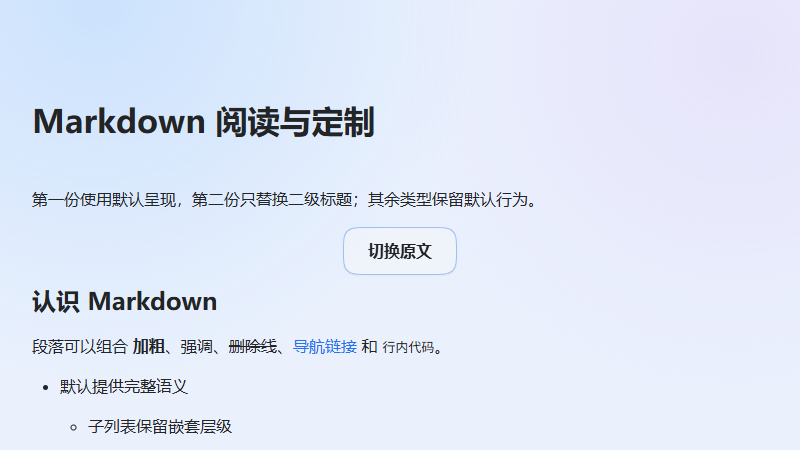
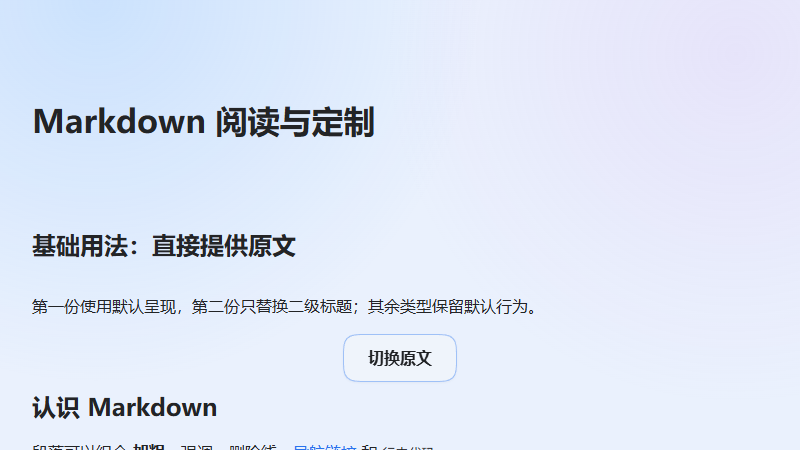
🚧 文件命名

diff --git a/src/app/example-dashboard/pages/ExampleDashboard.browser.test.tsx b/src/app/example-dashboard/pages/ExampleDashboard.browser.test.tsx
@@ -237,6 +237,39 @@ describe('ExampleDashboard', () => {
     ).toEqual(['Article'])
   })
 
+  test('Markdown 详情按场景展示代码原文与本地文件，切换原文不改变文件内容', () => {
+    window.history.replaceState(null, '', '/examples/markdown')
+    const host = document.body.appendChild(document.createElement('div'))
+    dispose = render(() => <ExampleDashboard />, host)
+
+    const headings = [...host.querySelectorAll('h2')].map(
+      (node) => node.textContent,
+    )
+    expect(headings).toContain('基础用法：直接提供原文')
+    expect(headings).toContain('渲染 Markdown 文件')
+    const documents = host.querySelectorAll('.Markdown')
+    expect(documents).toHaveLength(3)
+    expect(documents[0].querySelector('h2')?.textContent).toBe('认识 Markdown')
+    expect(documents[1].querySelector('h3')?.textContent).toBe(
+      '自定义标题：认识 Markdown',
+    )
+    expect(documents[2].querySelector('h3')?.textContent).toBe(
+      '文件中的阅读指南',
+    )
+    expect(documents[2].querySelectorAll('tbody tr')).toHaveLength(2)
+
+    const switchButton = [
+      ...host.querySelectorAll<HTMLButtonElement>('button'),
+    ].find((button) => button.textContent === '切换原文')!
+    switchButton.click()
+    flush()
+    expect(documents[0].textContent).toContain('原文已经更新')
+    expect(documents[1].textContent).toContain('自定义标题：原文已经更新')
+    expect(documents[2].querySelector('h3')?.textContent).toBe(
+      '文件中的阅读指南',
+    )
+  })
+
   test('Article 示例由外层 Card 承载，皮肤与正文语义各归自身', () => {
     window.history.replaceState(null, '', '/examples/article')
     const host = document.body.appendChild(document.createElement('div'))

diff --git a/src/app/example-dashboard/pages/ExampleDashboard.tsx b/src/app/example-dashboard/pages/ExampleDashboard.tsx
@@ -34,7 +34,7 @@ import { ButtonExample } from '@/components/kits/Button/Button.example'
 import { Card, Flow } from '@/components'
 import { CardExample } from '@/components/kits/Card/Card.example'
 import { ArticleExample } from '@/components/kits/Article/Article.example'
-import { MarkdownExample } from '@/components/kits/Markdown/Markdown.example'
+import { MarkdownExamples } from '@/components/kits/Markdown/examples/showcase'
 import { InputExample } from '@/components/kits/Input/Input.example'
 import { PopoverExample } from '@/components/plugins/kits/Popover/popover.example'
 import { PivStructureExample } from '@/components/Piv/PivStructure.example'
@@ -81,7 +81,7 @@ export const exampleEntries: ExampleEntry[] = [
     category: exampleCategories.component,
     summary: '渲染 Markdown 原文，按语法类型定制内容呈现。',
     thumbnail: new URL('../thumbnails/markdown.webp', import.meta.url).href,
-    content: MarkdownExample,
+    content: MarkdownExamples,
   },
   {
     id: 'async-state',

diff --git a/src/components/kits/Markdown/examples/basic-usage.tsx b/src/components/kits/Markdown/examples/basic-usage.tsx
@@ -5,7 +5,7 @@
  *
  * 让调用方直接看到同一份原文怎样使用不同呈现配置。
  */
-import { Button, Flow, Heading, Markdown, Text } from '../..'
+import { Button, Flow, Heading, Markdown, Text } from '../../..'
 import { createState } from '@/foundation'
 
 const initialMarkdown = `## 认识 **Markdown**
@@ -32,11 +32,11 @@ const message = '你好，Markdown'
 /**
  * 通过编辑来源与局部标题覆盖，展示原文和配置的独立作用。
  */
-export function MarkdownExample() {
+export function BasicUsageExample() {
   const content = createState(initialMarkdown)
   return (
     <Flow styleConfig={{ direction: 'column' }}>
-      <Heading level={1}>Markdown 阅读与定制</Heading>
+      <Heading level={2}>基础用法：直接提供原文</Heading>
       <Text>
         第一份使用默认呈现，第二份只替换二级标题；其余类型保留默认行为。
       </Text>

diff --git a/src/components/kits/Markdown/examples/markdown-file.tsx b/src/components/kits/Markdown/examples/markdown-file.tsx
@@ -1,0 +1,24 @@
+/**
+ * 本地 Markdown 文件的渲染示例。
+ *
+ * 将相邻文件作为原文导入，再交给 Markdown 的 children。
+ *
+ * 文件读取由应用构建工具承担，组件只接收字符串。
+ */
+import { Flow, Heading, Markdown, Text } from '../../..'
+import readingGuide from './reading-guide.md?raw'
+
+/**
+ * 展示通过 ?raw 导入的 Markdown 文件，沿用直接传入原文的组件契约。
+ */
+export function MarkdownFileExample() {
+  return (
+    <Flow styleConfig={{ direction: 'column' }}>
+      <Heading level={2}>渲染 Markdown 文件</Heading>
+      <Text>
+        相邻的 reading-guide.md 通过 ?raw 导入，作为 children 交给 Markdown。
+      </Text>
+      <Markdown>{readingGuide}</Markdown>
+    </Flow>
+  )
+}

diff --git a/src/components/kits/Markdown/examples/showcase.tsx b/src/components/kits/Markdown/examples/showcase.tsx
@@ -1,0 +1,23 @@
+/**
+ * Markdown 各使用场景的展示入口。
+ *
+ * 将代码原文与独立文件两种输入场景组织到同一页面。
+ *
+ * 示例目录只需登记一个入口，各场景仍在自己的文件中说明用法。
+ */
+import { Flow, Heading } from '../../..'
+import { BasicUsageExample } from './basic-usage'
+import { MarkdownFileExample } from './markdown-file'
+
+/**
+ * 按输入场景展示 Markdown 的基础用法与文件渲染。
+ */
+export function MarkdownExamples() {
+  return (
+    <Flow styleConfig={{ direction: 'column' }}>
+      <Heading level={1}>Markdown 阅读与定制</Heading>
+      <BasicUsageExample />
+      <MarkdownFileExample />
+    </Flow>
+  )
+}

diff --git a/src/components/kits/Markdown/parser.ts b/src/components/kits/Markdown/parser.ts
@@ -9,8 +9,8 @@ import type {
   MarkdownListItem,
   MarkdownNode,
   MarkdownReferences,
-} from './Markdown.syntax-tree'
-import { parseMarkdownInline, readMarkdownDestination } from './Markdown.inline-parser'
+} from './syntax-tree'
+import { parseMarkdownInline, readMarkdownDestination } from './inline-parser'
 
 /** 一行列表标记决定项目的缩进归属，而非只凭项目符号分组。 */
 interface ListMarker {

diff --git a/src/components/kits/Markdown/inline-parser.ts b/src/components/kits/Markdown/inline-parser.ts
@@ -5,7 +5,7 @@
  *
  * 未闭合的语法保留文字，代码内容不参与实体或强调解释。
  */
-import type { MarkdownNode, MarkdownReferences } from './Markdown.syntax-tree'
+import type { MarkdownNode, MarkdownReferences } from './syntax-tree'
 
 /** 当前支持的常用命名实体；未知名称保留原文。 */
 const namedEntities = new Map([

diff --git a/src/components/kits/Markdown/renderer.tsx b/src/components/kits/Markdown/renderer.tsx
@@ -5,7 +5,7 @@
  *
  * 解析器类型留在内部，默认呈现复用 UIKit 中契约适配的能力。
  */
-import type { MarkdownNode } from './Markdown.syntax-tree'
+import type { MarkdownNode } from './syntax-tree'
 import type { JSX } from '@/foundation'
 import { Piv } from '../../Piv/Piv'
 import { Heading } from '../Heading/Heading'

diff --git a/src/components/kits/Markdown/Markdown.tsx b/src/components/kits/Markdown/Markdown.tsx
@@ -14,8 +14,8 @@ import {
   type MarkdownProps,
   type MarkdownController,
 } from './Markdown.prop'
-import { renderMarkdown } from './Markdown.renderer'
-import { parseMarkdown } from './Markdown.parser'
+import { renderMarkdown } from './renderer'
+import { parseMarkdown } from './parser'
 import './Markdown.style'
 
 /**

diff --git a/docs/guide/组件职责与样式归属.md b/docs/guide/组件职责与样式归属.md
@@ -10,6 +10,22 @@
 
 `components/` 可以只是 App 内组件的查找分组，不因建立目录就产生新领域，也不因此需要聚合 `index.ts`。请求会话、文件解析等非界面职责不放进去。
 
+# 组件文件的命名
+
+组件名称前缀表达组件自身的直接组织关系，不是同目录文件的统一前缀。组件主体及其直接组织部件使用组件名；组件输入协议、组件自有样式等配套文件沿用 `Component.prop.ts`、`Component.style.ts`，以组件为对象的测试沿用已约定的测试后缀。这里的“直接组织部件”指组件自身实现的分工，不包括它调用的所有函数或组件。
+
+独立逻辑文件按自身职责命名。解析器、渲染器、语法树等已有完整职责时，使用 `parser.ts`、`renderer.tsx`、`syntax-tree.ts`；即使目前只被一个组件使用，也不因此添加组件名称前缀。组件目录已经表达所属范围，文件名继续说明这个文件是什么。
+
+| 文件身份 | Markdown 中的命名示例 | 名称表达的关系 |
+| --- | --- | --- |
+| 组件主体 | `Markdown.tsx` | 组织组件输入、逻辑能力和实际呈现 |
+| 组件输入协议 | `Markdown.prop.ts` | 直接定义该组件的 Props 与 Controller 协议 |
+| 组件自有样式 | `Markdown.style.ts` | 直接定义该组件拥有的样式 |
+| 独立逻辑 | `parser.ts`、`inline-parser.ts`、`renderer.tsx` | 各自负责文档解析、行内解析和渲染 |
+| 内部内容结构 | `syntax-tree.ts` | 定义解析与渲染共同使用的语法树 |
+
+二级名称使用能指明对象的名词或名词短语，例如 `parser`、`inline-parser`、`syntax-tree`、`renderer`。函数名仍表达动作，例如 `parseMarkdown()`、`renderMarkdown()`。不能仅因一个文件被组件导入，就把它命名为组件的配套部件；也不能仅为删去前缀，将文件名缩成没有明确职责的 `data` 或 `utils`。
+
 # 业务组合与基础实现的边界
 
 以下边界引自 [Data Viewer 项目硬边界／UIKit 与渲染边界](D:/mycode/data-viewer/doc/项目硬边界.md#uikit-与渲染边界)，按本次用户要求用于组件写法；不引入该项目的数据表业务范围或临时目录结构。
@@ -135,7 +151,48 @@ Plan 模块连接、原文定位、核对依据等知识由应用拥有，不因
 
 # Example 与截图
 
-UIKit 的每个组件都必须有可运行的 Example，表达它完成什么、责任边界在哪里，以及调用方怎样使用它。公开组件在主体旁维护 `.example.tsx` 并登记到现有 `/examples` 目录；内部专属组件也必须在所属主体的 Example 中体现其职责与效果，不机械建立独立页面。Board 按其非独立身份，在 MessageBoard 等实际消费示例中体现，不单独建立信息单元展示页。
+## Example 的概念与组成
+
+Example 是可运行的使用场景：通过真实输入、组件组合或交互动作，展示组件完成什么、调用方怎样使用，以及能观察到什么结果。一个 Example 可以由示例组件和配套材料共同组成，不等同于一个固定名称的 TSX 文件，也不要求一个组件只有一个示例。
+
+组件的示例集中在自身的 `examples/` 目录。每个场景文件负责一种清楚的用法；场景实际使用的 Markdown 原文、数据等材料也放在该目录，并由对应场景引用。多个场景需要在同一页面展示时，由展示入口组合它们，再把入口登记到现有 `/examples` 浏览目录。只有一个场景时可以直接登记，不为目录增加无用途的入口包装。
+
+```mermaid
+flowchart LR
+    D[Example 浏览目录] -->|展示| S[示例场景]
+    D -->|展示| E[多场景展示入口]
+    E -->|组合| S
+    S -->|组合使用| C[被演示的组件]
+    M[examples 内的示例原文与数据] -->|提供输入| S
+```
+
+UIKit 的每个组件都必须有可运行的 Example。内部专属组件在所属主体的示例场景中体现职责与效果，不机械建立独立页面。Board 按其非独立身份，在 MessageBoard 等实际消费示例中体现，不单独建立信息单元展示页。
+
+## Example 的命名
+
+`examples/` 已经表达示例归属，文件按实际场景或材料命名，不重复组件名称，也不把所有场景统一命名为 `ComponentExample`。基础用法可以叫 `basic-usage.tsx`；文件输入场景可以叫 `markdown-file.tsx`；多场景展示入口可以叫 `showcase.tsx`。名称随实际用途确定，不强制凑齐这些文件。
+
+例如 Markdown 的代码内原文、默认与自定义渲染可以在基础用法中展示；独立 `.md` 文件的渲染另设文件场景。`.md` 原文放在同一 `examples/` 目录，按内容命名为 `reading-guide.md` 等，不放进生产逻辑文件中。
+
+```text
+Markdown/
+├─ Markdown.tsx
+├─ Markdown.prop.ts
+├─ Markdown.style.ts
+├─ parser.ts
+├─ inline-parser.ts
+├─ syntax-tree.ts
+├─ renderer.tsx
+└─ examples/
+   ├─ showcase.tsx
+   ├─ basic-usage.tsx
+   ├─ markdown-file.tsx
+   └─ reading-guide.md
+```
+
+示例函数也按场景区分，例如 `BasicUsageExample`、`MarkdownFileExample`；`MarkdownExamples` 可以作为组合这些场景的展示入口名称。示例文件与函数的命名分别说明材料用途和可调用入口，不以统一组件前缀代替场景名称。
+
+## 展示内容与截图
 
 目录明确标识零级、零点五级、一级和二级。一级与二级展示信息体及聚合模式；零点五级展示组织或协作能力，不能与信息体混标。Loop、ComponentIdentityMarker 等仍保留可发现的示例，不能因它们不是信息载体而删除演示。
 

diff --git a/Architecture.md b/Architecture.md
@@ -151,7 +151,7 @@ Example Dashboard 只负责发现、导航和展示各主体旁边的 Example，
 
 # Markdown 解析与呈现
 
-Markdown 自行解析常用 Markdown 语法，块结构与行内语法分别由 `Markdown.parser.ts`、`Markdown.inline-parser.ts` 负责，通过内部内容树交给 `Markdown.renderer.tsx`；公开 `renderers` 接收已渲染的 `content`。默认节点由 Piv 创建，一级至四级标题复用 Heading，链接复用 Link；现有 Table 的对象记录协议不参与 Markdown 表格。支持标题、段落、代码、引用、嵌套列表、任务列表、表格、强调、删除线及链接图片，支持范围不等同完整 GFM。原生 HTML 显示为文本，未知标记及未闭合的行内语法保留文字；未闭合围栏按代码读取到文档结尾。实体只解码数字实体及 amp、lt、gt、quot、apos、nbsp 六种常用名称，代码保持原样。块缩进以空格识别，代码内的制表符原样保留。地址只保留阅读所需的相对路径与协议。
+Markdown 自行解析常用 Markdown 语法，块结构与行内语法分别由 `parser.ts`、`inline-parser.ts` 负责，通过内部内容树交给 `renderer.tsx`；公开 `renderers` 接收已渲染的 `content`。默认节点由 Piv 创建，一级至四级标题复用 Heading，链接复用 Link；现有 Table 的对象记录协议不参与 Markdown 表格。支持标题、段落、代码、引用、嵌套列表、任务列表、表格、强调、删除线及链接图片，支持范围不等同完整 GFM。原生 HTML 显示为文本，未知标记及未闭合的行内语法保留文字；未闭合围栏按代码读取到文档结尾。实体只解码数字实体及 amp、lt、gt、quot、apos、nbsp 六种常用名称，代码保持原样。块缩进以空格识别，代码内的制表符原样保留。地址只保留阅读所需的相对路径与协议。
 
 # 文档边界
 
